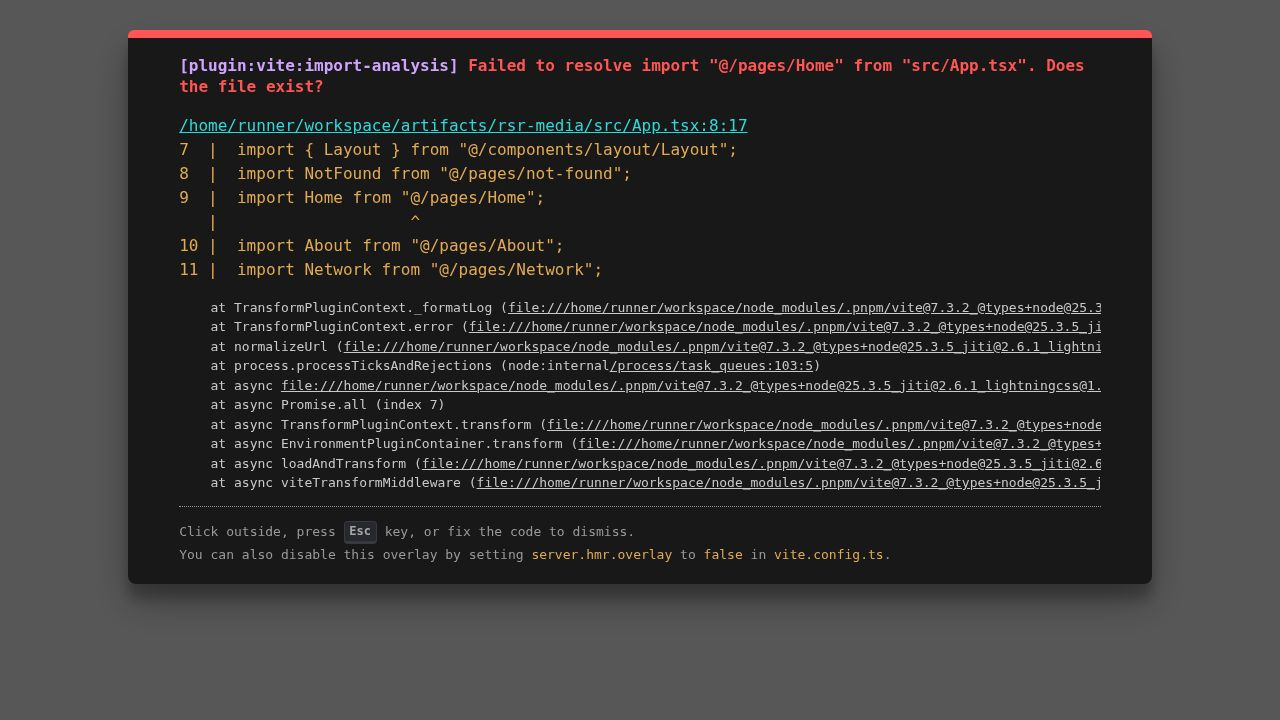
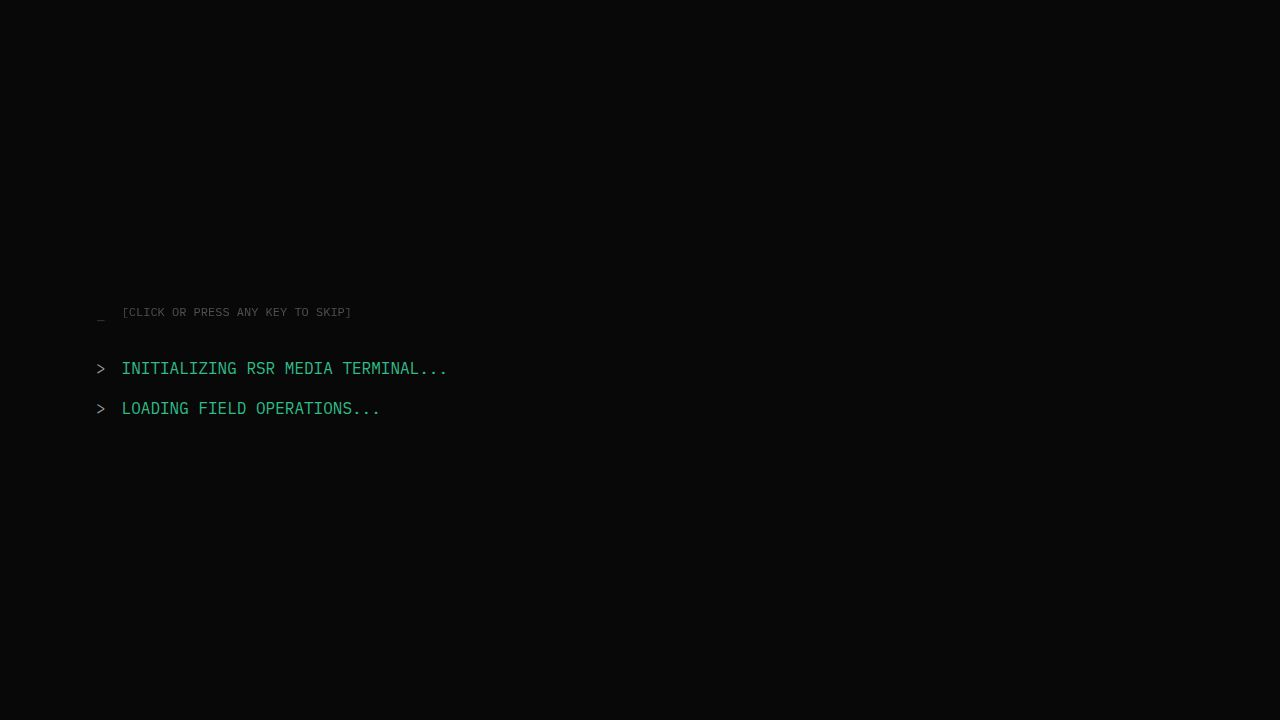
Improve website's visual appearance with a tactical, cyberpunk theme
Refine header branding, enhance panel styling with glows and borders, add global scrollbar styling, and implement a subtle scanline overlay.

Replit-Commit-Author: Agent
Replit-Commit-Session-Id: 1b2c175a-0526-4209-b249-46954b0c9b85
Replit-Commit-Checkpoint-Type: full_checkpoint
Replit-Commit-Event-Id: 0256007f-d889-4263-b79c-ce2235c0c1d1
Replit-Commit-Screenshot-Url: https://storage.googleapis.com/screenshot-production-us-central1/446d0834-8faa-4866-8ad4-d09cf184b0ed/1b2c175a-0526-4209-b249-46954b0c9b85/Rdr169F
Replit-Helium-Checkpoint-Created: true

diff --git a/artifacts/rsr-media/src/index.css b/artifacts/rsr-media/src/index.css
@@ -132,13 +132,26 @@
   }
 }
 
-/* ── Glass Panel ─────────────────────── */
+/* ── Glass Panel — tactical command panel, visible by default, glow on hover ── */
 .glass-panel {
-  background: rgba(255,255,255,0.025);
+  background: rgba(8, 12, 14, 0.55);
   backdrop-filter: blur(12px);
   -webkit-backdrop-filter: blur(12px);
-  border: 1px solid rgba(255,255,255,0.07);
-  box-shadow: 0 4px 32px rgba(0,0,0,0.5), inset 0 1px 0 rgba(255,255,255,0.04);
+  border: 1px solid rgba(0, 224, 164, 0.18);
+  box-shadow:
+    0 4px 32px rgba(0, 0, 0, 0.5),
+    0 0 22px rgba(0, 224, 164, 0.08),
+    inset 0 1px 0 rgba(255, 255, 255, 0.04),
+    inset 0 0 18px rgba(255, 255, 255, 0.022);
+  transition: border-color 0.28s ease, box-shadow 0.28s ease;
+}
+.glass-panel:hover {
+  border-color: rgba(0, 224, 164, 0.45);
+  box-shadow:
+    0 4px 32px rgba(0, 0, 0, 0.55),
+    0 0 34px rgba(0, 224, 164, 0.18),
+    inset 0 1px 0 rgba(255, 255, 255, 0.06),
+    inset 0 0 22px rgba(255, 255, 255, 0.035);
 }
 
 /* ── Scanline Overlay ────────────────── */
@@ -169,18 +182,20 @@
 .corner-bracket::before, .corner-bracket::after {
   content: '';
   position: absolute;
-  width: 10px;
-  height: 10px;
-  border-color: hsl(0 0% 24%);
+  width: 12px;
+  height: 12px;
+  border-color: rgba(0, 224, 164, 0.55);
   border-style: solid;
-  opacity: 0.5;
-  transition: border-color 0.2s, opacity 0.2s;
+  opacity: 0.7;
+  transition: border-color 0.2s, opacity 0.2s, width 0.2s, height 0.2s;
 }
 .corner-bracket::before { top: -1px; left: -1px; border-width: 1.5px 0 0 1.5px; }
 .corner-bracket::after { bottom: -1px; right: -1px; border-width: 0 1.5px 1.5px 0; }
 .corner-bracket:hover::before, .corner-bracket:hover::after {
-  border-color: hsl(var(--primary));
-  opacity: 0.45;
+  border-color: rgba(0, 224, 164, 0.95);
+  opacity: 1;
+  width: 14px;
+  height: 14px;
 }
 
 /* ── Glow utilities ──────────────────── */
@@ -227,6 +242,76 @@
 }
 .hover-glow-emerald:hover {
   box-shadow: 0 0 24px rgba(0, 224, 164, 0.10), inset 0 0 18px rgba(0, 224, 164, 0.035);
+}
+
+/* ── Tactical Scrollbar (WebKit + Firefox) ─────────────── */
+* {
+  scrollbar-width: thin;
+  scrollbar-color: rgba(0,224,164,0.35) #050607;
+}
+*::-webkit-scrollbar {
+  width: 8px;
+  height: 8px;
+}
+*::-webkit-scrollbar-track {
+  background: #050607;
+}
+*::-webkit-scrollbar-thumb {
+  background: rgba(0,224,164,0.35);
+  border: 1px solid rgba(0,0,0,0.4);
+  transition: background 0.2s;
+}
+*::-webkit-scrollbar-thumb:hover {
+  background: rgba(0,224,164,0.65);
+}
+*::-webkit-scrollbar-corner {
+  background: #050607;
+}
+
+/* ── Tactical Panel — visible by default, glow on hover ── */
+.tactical-panel {
+  background: rgba(8, 12, 14, 0.6);
+  border: 1px solid rgba(0, 224, 164, 0.18);
+  box-shadow:
+    0 0 22px rgba(0, 224, 164, 0.08),
+    inset 0 0 18px rgba(255, 255, 255, 0.025);
+  transition: border-color 0.28s ease, box-shadow 0.28s ease;
+  position: relative;
+}
+.tactical-panel:hover {
+  border-color: rgba(0, 224, 164, 0.45);
+  box-shadow:
+    0 0 34px rgba(0, 224, 164, 0.18),
+    inset 0 0 18px rgba(255, 255, 255, 0.04);
+}
+.tactical-panel-blue {
+  border-color: rgba(41, 182, 246, 0.18);
+  box-shadow:
+    0 0 22px rgba(41, 182, 246, 0.08),
+    inset 0 0 18px rgba(255, 255, 255, 0.025);
+}
+.tactical-panel-blue:hover {
+  border-color: rgba(41, 182, 246, 0.45);
+  box-shadow:
+    0 0 34px rgba(41, 182, 246, 0.18),
+    inset 0 0 18px rgba(255, 255, 255, 0.04);
+}
+
+/* ── Faint scanline overlay applied at body level ─────── */
+body::before {
+  content: '';
+  position: fixed;
+  inset: 0;
+  pointer-events: none;
+  z-index: 1;
+  background: repeating-linear-gradient(
+    0deg,
+    transparent 0px,
+    transparent 3px,
+    rgba(0, 224, 164, 0.012) 3px,
+    rgba(0, 224, 164, 0.012) 4px
+  );
+  mix-blend-mode: screen;
 }
 
 @media (prefers-reduced-motion: reduce) {

diff --git a/artifacts/rsr-media/src/components/layout/CommandHeader.tsx b/artifacts/rsr-media/src/components/layout/CommandHeader.tsx
@@ -146,12 +146,17 @@ export function CommandHeader() {
 
   return (
     <header
-      className="sticky top-0 z-50 w-full bg-[hsl(0_0%_3%)] border-b border-border/25 backdrop-blur-md"
-      style={{ boxShadow: '0 1px 0 rgba(16,185,129,0.10), 0 4px 24px rgba(16,185,129,0.04), 0 2px 8px rgba(0,0,0,0.4)' }}
+      className="sticky top-0 z-50 w-full bg-[hsl(0_0%_3%)] border-b border-primary/15 backdrop-blur-md relative"
+      style={{ boxShadow: '0 1px 0 rgba(0,224,164,0.18), 0 0 24px rgba(0,224,164,0.06), 0 2px 8px rgba(0,0,0,0.5)' }}
     >
+      {/* Thin tactical glow line under header */}
+      <div className="absolute bottom-0 left-0 right-0 h-px pointer-events-none" style={{
+        background: 'linear-gradient(90deg, transparent 0%, rgba(0,224,164,0.45) 25%, rgba(41,182,246,0.35) 65%, transparent 100%)',
+      }} />
+
       <div className="mx-auto px-4 max-w-[1440px] h-16 flex items-center gap-0">
 
-        {/* Logo lockup */}
+        {/* Logo lockup — single-line brand */}
         <Link href="/" className="flex items-center gap-2.5 shrink-0 group mr-3" data-testid="nav-home">
           <img
             src="/rsr-logo.png"
@@ -159,12 +164,23 @@ export function CommandHeader() {
             className="h-7 w-7 object-contain group-hover:opacity-80 transition-opacity"
             onError={(e) => { (e.target as HTMLImageElement).style.display = 'none'; }}
           />
-          <span
-            className="text-foreground whitespace-nowrap"
-            style={{ fontFamily: "'Orbitron', sans-serif", fontWeight: 900, fontSize: '0.78rem', letterSpacing: '0.06em' }}
-          >
-            RSR MEDIA
-          </span>
+          <div className="flex items-baseline gap-2 whitespace-nowrap">
+            <span
+              className="text-foreground"
+              style={{
+                fontFamily: "'Orbitron', sans-serif",
+                fontWeight: 900,
+                fontSize: '0.85rem',
+                letterSpacing: '0.08em',
+                textShadow: '0 0 12px rgba(0,224,164,0.25)',
+              }}
+            >
+              RSR MEDIA
+            </span>
+            <span className="hidden md:inline font-mono text-[0.5rem] tracking-[0.18em] text-muted-foreground/35 uppercase">
+              // POWERED BY PACIFIC SYSTEMS
+            </span>
+          </div>
         </Link>
 
         <div className="hidden lg:block w-px h-5 bg-border/25 mr-1 shrink-0" />
@@ -185,21 +201,6 @@ export function CommandHeader() {
           })}
           <SystemsDropdown isActive={isSystemsActive} />
         </nav>
-
-        {/* Header badge — ecosystem branding, xl+ only */}
-        <div className="hidden xl:flex items-center gap-1 border border-border/15 bg-card/6 px-2 py-1 mx-2 shrink-0">
-          <Link href="/pacific"
-            className="font-mono text-[0.5rem] tracking-widest transition-colors hover:opacity-80 whitespace-nowrap"
-            style={{ color: 'rgba(245,158,11,0.5)' }}>
-            ENG.PACIFIC
-          </Link>
-          <span className="text-muted-foreground/18 text-[0.5rem] mx-0.5">//</span>
-          <Link href="/security"
-            className="font-mono text-[0.5rem] tracking-widest transition-colors hover:opacity-80 whitespace-nowrap"
-            style={{ color: 'rgba(239,68,68,0.45)' }}>
-            SEC.BLACK DOG
-          </Link>
-        </div>
 
         {/* Right: social + clock + weather + status */}
         <div className="hidden lg:flex items-center gap-1.5 ml-auto shrink-0">

diff --git a/artifacts/rsr-media/src/components/layout/CommandFooter.tsx b/artifacts/rsr-media/src/components/layout/CommandFooter.tsx
@@ -241,8 +241,8 @@ export function CommandFooter() {
           </p>
           <div className="flex items-center gap-4 flex-wrap justify-center">
             <span className="font-mono text-[0.58rem] text-primary/28 tracking-widest">SIGNAL &gt; NOISE</span>
-            <span className="font-mono text-[0.55rem] text-muted-foreground/22 tracking-widest">
-              Powered by RSR Intelligence Network · Engineered by Pacific Systems
+            <span className="font-mono text-[0.55rem] text-muted-foreground/22 tracking-widest text-center">
+              Powered by RSR Intelligence Network · Engineered by Pacific Systems · Secured through Black Dog Security
             </span>
           </div>
         </div>